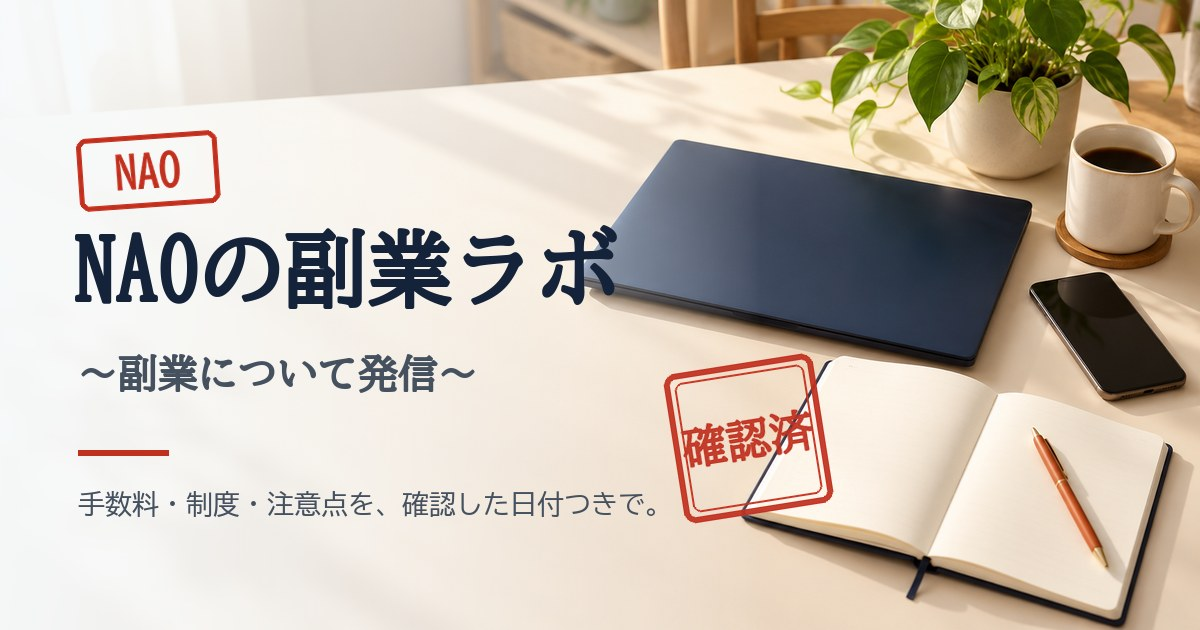
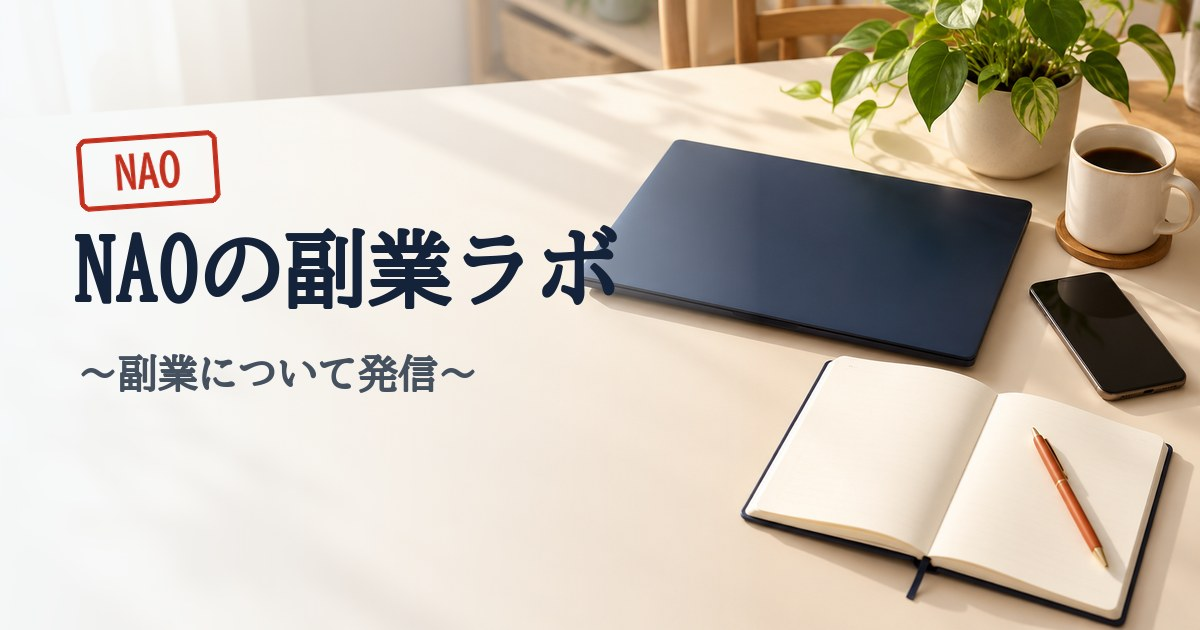
トップのヒーローを整理: 説明文を削除し、ボタンを2つ並べ、検証ログを自動更新の副業ニュースに変更
- ヒーローの説明文を削除
- 「自分に合う副業を探す」を初心者ロードマップと同じボタン式に変更
- 右側のパネルを「副業ニュース」に変更し、最新の発表（自動更新）を表示。補足文は削除
- トップ下部の重複していたニュース欄を削除
- 同じ発表元・日付・名称の重複見出しを1件にまとめる処理を追加
- 共有用画像から説明文と印を外してシンプルに

Changed region(s): [[0.0617, 0.5429, 0.7092, 0.8444], [0.0617, 0.6937, 0.1542, 0.7238]]

diff --git a/index.html b/index.html
@@ -77,43 +77,44 @@
     <div class="wrap hero-grid">
       <div class="hero-copy">
         <h1>NAOの副業ラボ<span class="hero-tagline">〜副業について発信〜</span></h1>
-        <p class="lead">手数料・制度・注意点を公式ページで確認し、確認した日付つきで載せています。副業が初めての会社員・主婦(夫)でも、最初の一歩を選べるようにまとめた情報サイトです。</p>
         <div class="hero-actions">
           <a class="btn btn-primary" href="#roadmap">初心者ロードマップを見る</a>
-          <a class="hero-link" href="#diagnosis">自分に合う副業を探す</a>
+          <a class="btn btn-outline" href="#diagnosis">自分に合う副業を探す</a>
         </div>
       </div>
       <div class="ledger" role="region" aria-labelledby="ledger-title">
-        <span class="seal" aria-hidden="true">確認済</span>
-        <h2 id="ledger-title">検証ログ</h2>
-        <p class="ledger-sub">公式の一次情報で確かめて、記事に反映した項目です。</p>
+        <span class="seal" aria-hidden="true">公式</span>
+        <h2 id="ledger-title">副業ニュース</h2>
         <ul class="ledger-list">
+          <!-- NEWS-LATEST:START -->
           <li>
-            <time datetime="2026-10-18">2026.10.18</time>
-            <span class="item">開業届の提出期限</span>
-            <span class="src">国税庁 タックスアンサー No.2090 ／ <a href="articles/01-fukugyou-basics.html">副業の基礎知識</a></span>
+            <time datetime="2026-10-16">2026.10.16</time>
+            <a class="item" href="https://www.mhlw.go.jp/stf/shingi/shingi-tingin_127940.html" target="_blank" rel="noopener">中央最低賃金審議会(目安制度の在り方に関する全員協議会)</a>
+            <span class="src">厚生労働省</span>
           </li>
           <li>
-            <time datetime="2026-10-18">2026.10.18</time>
-            <span class="item">給与の副業にかかる確定申告の判定</span>
-            <span class="src">国税庁 タックスアンサー No.1900 ／ <a href="articles/09-tax-kakuteishinkoku.html">確定申告・税金</a></span>
+            <time datetime="2026-10-16">2026.10.16</time>
+            <a class="item" href="https://www.caa.go.jp/notice/entry/047783/" target="_blank" rel="noopener">第9回取引デジタルプラットフォーム官民協議会の開催について</a>
+            <span class="src">消費者庁</span>
           </li>
           <li>
-            <time datetime="2026-10-18">2026.10.18</time>
-            <span class="item">Kindle電子書籍の70%ロイヤリティ条件</span>
-            <span class="src">KDP公式ヘルプ ／ <a href="articles/12-kindle-publishing.html">Kindle出版</a></span>
+            <time datetime="2026-10-15">2026.10.15</time>
+            <a class="item" href="https://www.fsa.go.jp/policy/nisa2/products/index.html" target="_blank" rel="noopener">その他,つみたて投資枠対象商品届出一覧及びつみたて投資枠対象商品の概要を更新しました。</a>
+            <span class="src">金融庁</span>
           </li>
           <li>
-            <time datetime="2026-10-18">2026.10.18</time>
-            <span class="item">iDeCoの2026年12月の制度改正</span>
-            <span class="src">iDeCo公式サイト ／ <a href="articles/19-investment-basics.html">資産運用の基礎</a></span>
+            <time datetime="2026-10-13">2026.10.13</time>
+            <a class="item" href="https://www.caa.go.jp/notice/entry/047756/" target="_blank" rel="noopener">第9回現代社会における消費者取引の在り方を踏まえた消費者契約法検討会の議事録を公表しました。</a>
+            <span class="src">消費者庁</span>
           </li>
           <li>
-            <time datetime="2026-10-18">2026.10.18</time>
-            <span class="item">SHElikesの入会金・料金の構成</span>
-            <span class="src">SHElikes公式 料金ページ ／ <a href="articles/18-skillup-courses.html">スキルアップ講座</a></span>
+            <time datetime="2026-10-06">2026.10.06</time>
+            <a class="item" href="https://www.kokusen.go.jp/news/data/n-20261006_1.html" target="_blank" rel="noopener">SNSでのやり取りは要注意！チケットの転売トラブル</a>
+            <span class="src">国民生活センター</span>
           </li>
+          <!-- NEWS-LATEST:END -->
         </ul>
+        <p class="ledger-more"><a href="news.html">副業ニュースをすべて見る</a></p>
       </div>
     </div>
   </div>
@@ -725,57 +726,6 @@
           </div>
         </div>
       </div>
-    </div>
-  </section>
-
-  <section id="news" class="section-tint-lavender">
-    <div class="wrap">
-      <div class="section-head">
-        <div>
-          <h2 class="section-title tone-teal">副業ニュース</h2>
-          <p class="section-sub">国の機関の公開情報から、副業に関係する最新の発表を毎日自動で掲載しています。</p>
-        </div>
-        <a class="section-more readmore" href="news.html">副業ニュースをすべて見る</a>
-      </div>
-      <ul class="news-list">
-        <!-- NEWS-LATEST:START -->
-        <li class="news-item" data-topic="work">
-          <time datetime="2026-10-16">2026.10.16</time>
-          <div class="news-main">
-            <a href="https://www.mhlw.go.jp/stf/shingi/shingi-tingin_127940.html" target="_blank" rel="noopener">中央最低賃金審議会(目安制度の在り方に関する全員協議会)</a>
-            <span class="news-meta"><span class="news-source">厚生労働省</span><span class="news-topic">働き方</span></span>
-          </div>
-        </li>
-        <li class="news-item" data-topic="work">
-          <time datetime="2026-10-16">2026.10.16</time>
-          <div class="news-main">
-            <a href="https://www.mhlw.go.jp/stf/shingi/shingi-tingin_127939.html" target="_blank" rel="noopener">中央最低賃金審議会 (中央最低賃金審議会)</a>
-            <span class="news-meta"><span class="news-source">厚生労働省</span><span class="news-topic">働き方</span></span>
-          </div>
-        </li>
-        <li class="news-item" data-topic="other">
-          <time datetime="2026-10-16">2026.10.16</time>
-          <div class="news-main">
-            <a href="https://www.caa.go.jp/notice/entry/047783/" target="_blank" rel="noopener">第9回取引デジタルプラットフォーム官民協議会の開催について</a>
-            <span class="news-meta"><span class="news-source">消費者庁</span><span class="news-topic">お知らせ</span></span>
-          </div>
-        </li>
-        <li class="news-item" data-topic="money">
-          <time datetime="2026-10-15">2026.10.15</time>
-          <div class="news-main">
-            <a href="https://www.fsa.go.jp/policy/nisa2/products/index.html" target="_blank" rel="noopener">その他,つみたて投資枠対象商品届出一覧及びつみたて投資枠対象商品の概要を更新しました。</a>
-            <span class="news-meta"><span class="news-source">金融庁</span><span class="news-topic">投資・お金</span></span>
-          </div>
-        </li>
-        <li class="news-item" data-topic="other">
-          <time datetime="2026-10-13">2026.10.13</time>
-          <div class="news-main">
-            <a href="https://www.caa.go.jp/notice/entry/047756/" target="_blank" rel="noopener">第9回現代社会における消費者取引の在り方を踏まえた消費者契約法検討会の議事録を公表しました。</a>
-            <span class="news-meta"><span class="news-source">消費者庁</span><span class="news-topic">お知らせ</span></span>
-          </div>
-        </li>
-        <!-- NEWS-LATEST:END -->
-      </ul>
     </div>
   </section>
 

diff --git a/css/style.css b/css/style.css
@@ -259,8 +259,7 @@ a[href$="#cat-review"] { --tab: #1f8a58; --dot: #1f8a58; }
   max-width: 34em;
   margin: 0 0 30px;
 }
-.hero-actions { display: flex; gap: 22px; flex-wrap: wrap; align-items: center; }
-.hero-link { font-weight: 700; color: var(--ink); }
+.hero-actions { display: flex; gap: 14px; flex-wrap: wrap; align-items: center; }
 
 .btn {
   display: inline-flex;
@@ -288,9 +287,9 @@ a[href$="#cat-review"] { --tab: #1f8a58; --dot: #1f8a58; }
   outline-offset: 5px;
   padding: 24px 24px 12px;
 }
-.ledger h2 { font-size: 1.2rem; margin: 0 0 2px; }
-.ledger .ledger-sub { margin: 0 0 8px; font-size: 0.86rem; color: var(--ink-soft); }
+.ledger h2 { font-size: 1.2rem; margin: 0 0 12px; }
 .ledger-list { list-style: none; margin: 0; padding: 0; }
+.ledger-list li:first-child { border-top: 0; padding-top: 0; }
 .ledger-list li {
   display: grid;
   grid-template-columns: 5.4rem minmax(0, 1fr);
@@ -306,7 +305,9 @@ a[href$="#cat-review"] { --tab: #1f8a58; --dot: #1f8a58; }
   font-variant-numeric: tabular-nums;
   padding-top: 3px;
 }
-.ledger-list .item { font-weight: 700; line-height: 1.6; }
+.ledger-list .item { font-weight: 700; line-height: 1.6; color: var(--ink); text-decoration: none; }
+.ledger-list a.item:hover { text-decoration: underline; text-underline-offset: 3px; }
+.ledger-more { margin: 0; padding: 12px 0 14px; border-top: 1px dashed var(--rule); font-size: 0.9rem; font-weight: 700; text-align: right; }
 .ledger-list .src { font-size: 0.8rem; color: var(--ink-soft); line-height: 1.6; }
 .ledger-list .src a { color: var(--ink); }
 .seal {
@@ -1110,7 +1111,6 @@ section { padding: 56px 0; }
 .news-note { font-size: 0.88rem; color: var(--ink-soft); }
 .news-empty { padding: 18px 4px; color: var(--ink-soft); border-bottom: 1px solid var(--rule); }
 .news-search-links { padding-left: 1.2em; }
-#news .news-list { background: var(--paper); padding: 0 16px; }
 
 /* ---------- Responsive ---------- */
 @media (max-width: 960px) {

diff --git a/news.html b/news.html
@@ -79,7 +79,7 @@
     <p>副業・働き方・お金・詐欺対策に関する、国の機関の公開情報を毎日自動で集めて掲載しています。見出しをクリックすると、公式サイトの元のページが開きます。</p>
     <p class="news-note">出典は国民生活センター・消費者庁・金融庁・厚生労働省・国税庁の公開情報です。見出しと日付のみを掲載しており、内容の要約や評価は当サイトでは行っていません。制度や条件の詳細は、必ずリンク先の公式ページでご確認ください。最終更新：
       <!-- NEWS-UPDATED:START -->
-<span class="news-updated-at">2026-10-18 22:12</span>
+<span class="news-updated-at">2026-10-18 22:16</span>
       <!-- NEWS-UPDATED:END -->
     </p>
 
@@ -98,13 +98,6 @@
           <time datetime="2026-10-16">2026.10.16</time>
           <div class="news-main">
             <a href="https://www.mhlw.go.jp/stf/shingi/shingi-tingin_127940.html" target="_blank" rel="noopener">中央最低賃金審議会(目安制度の在り方に関する全員協議会)</a>
-            <span class="news-meta"><span class="news-source">厚生労働省</span><span class="news-topic">働き方</span></span>
-          </div>
-        </li>
-        <li class="news-item" data-topic="work">
-          <time datetime="2026-10-16">2026.10.16</time>
-          <div class="news-main">
-            <a href="https://www.mhlw.go.jp/stf/shingi/shingi-tingin_127939.html" target="_blank" rel="noopener">中央最低賃金審議会 (中央最低賃金審議会)</a>
             <span class="news-meta"><span class="news-source">厚生労働省</span><span class="news-topic">働き方</span></span>
           </div>
         </li>

diff --git a/scripts/update_news.py b/scripts/update_news.py
@@ -222,7 +222,15 @@ def merge(old_items, new_items):
     limit = (datetime.now(JST).date() - timedelta(days=MAX_AGE_DAYS)).isoformat()
     items = [i for i in by_url.values() if i["date"] >= limit]
     items.sort(key=lambda i: (i["date"], i["url"]), reverse=True)
-    return items[:MAX_ITEMS]
+    # 同じ発表元・同じ日付で、名称が同じ（括弧の前まで一致する）見出しは1件にまとめる
+    seen, deduped = set(), []
+    for i in items:
+        key = (i["source"], i["date"], re.split(r"[ (（]", i["title"])[0])
+        if key in seen:
+            continue
+        seen.add(key)
+        deduped.append(i)
+    return deduped[:MAX_ITEMS]
 
 
 def esc(s):
@@ -245,6 +253,19 @@ def render_list(items, limit=None):
             f'<span class="news-topic">{esc(TOPIC_LABEL.get(i["topic"], "お知らせ"))}</span></span>\n'
             f'          </div>\n'
             f'        </li>'
+        )
+    return "\n".join(rows)
+
+
+def render_hero(items, limit=5):
+    rows = []
+    for i in items[:limit]:
+        rows.append(
+            f'          <li>\n'
+            f'            <time datetime="{esc(i["date"])}">{fmt(i["date"])}</time>\n'
+            f'            <a class="item" href="{esc(i["url"])}" target="_blank" rel="noopener">{esc(i["title"])}</a>\n'
+            f'            <span class="src">{esc(i["source"])}</span>\n'
+            f'          </li>'
         )
     return "\n".join(rows)
 
@@ -289,7 +310,7 @@ def main():
 
     replace_block("news.html", "NEWS-LIST", render_list(items))
     replace_block("news.html", "NEWS-UPDATED", f'<span class="news-updated-at">{esc(updated)}</span>')
-    replace_block("index.html", "NEWS-LATEST", render_list(items, 5))
+    replace_block("index.html", "NEWS-LATEST", render_hero(items, 5))
     log(f"items={len(items)} changed={changed} updated={updated}")
     return 0
 

diff --git a/README.md b/README.md
@@ -32,11 +32,10 @@ sitemap.xml / robots.txt
 - 手数料・制度・数値は公式サイトで確認し、確認日と出典リンクを本文に入れる
 - アフィリエイト・紹介リンクがある記事は、冒頭の `pr-note`（PR表記）と末尾の `disclosure-note` を入れ、リンクに `rel="sponsored"` を付ける
 - スクリーンショットや画像は `width` / `height` 属性を付ける（レイアウトのずれ防止）
-- 公式情報で確かめて記事を直したときは、トップ（`index.html`）の「検証ログ」に1行追加する（日付・項目・出典・反映した記事）。実際に確認していない項目は載せない
 
 ## 副業ニュースの自動更新
 
-- 毎日 7:00 と 18:30（日本時間）に GitHub Actions が `scripts/update_news.py` を実行し、国民生活センター・消費者庁・金融庁・厚生労働省・国税庁の公開情報から副業に関係する見出しを集めて、`news.html` とトップの新着欄、`data/news.json` を更新します。変更があるときだけコミットされ、そのまま公開されます。
+- 毎日 7:00 と 18:30（日本時間）に GitHub Actions が `scripts/update_news.py` を実行し、国民生活センター・消費者庁・金融庁・厚生労働省・国税庁の公開情報から副業に関係する見出しを集めて、`news.html` とトップの「副業ニュース」欄、`data/news.json` を更新します。変更があるときだけコミットされ、そのまま公開されます。
 - 掲載するのは見出し・日付・出典・公式ページへのリンクだけです（本文の転載や要約はしません）。
 - 取得元や抽出キーワードを変えるときは、`scripts/update_news.py` の `SOURCES` と `TOPICS` を編集します。ローカルでの確認は `python scripts/update_news.py`。
 - 手動で今すぐ更新したいときは、GitHub の Actions タブから「副業ニュースの自動更新」を Run workflow します。
